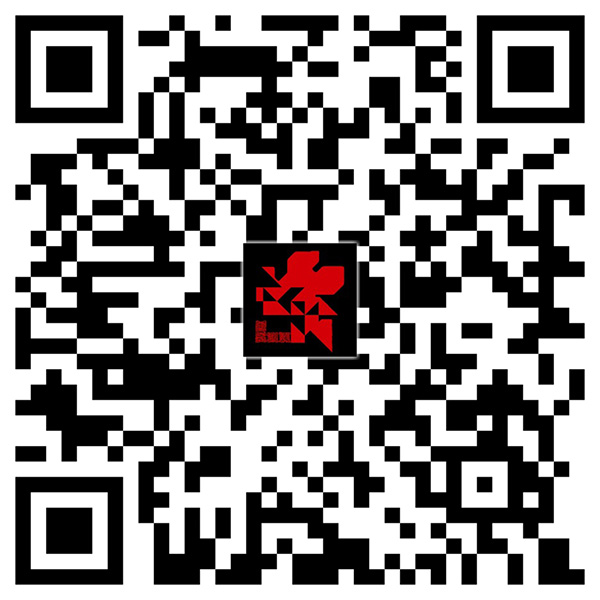
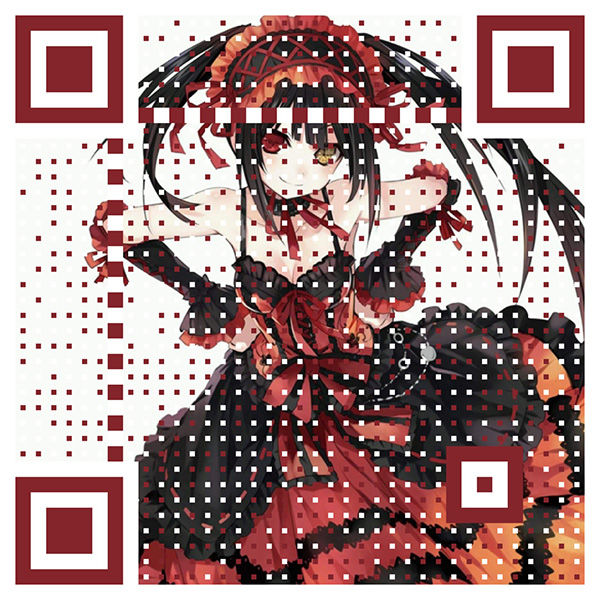
Fix README_CN.md

diff --git a/Example/EFQRCode/GeneratorController.swift b/Example/EFQRCode/GeneratorController.swift
@@ -59,7 +59,7 @@ class GeneratorController: UIViewController, UITextViewDelegate, UITableViewDele
 
         // Add test data
         let colorNameArray = [
-            "Black", "White", "Gray", "Red", "Blue", "LPD", "Miku", "Wille", "Hearth Stone", "Pikachu Red"
+            "Black", "White", "Gray", "Red", "Blue", "LPD", "Miku", "Wille", "Hearth Stone", "Pikachu Red", "3 Red"
         ]
         let colorArray = [
             UIColor.black, UIColor.white, UIColor.gray, UIColor.red, UIColor.blue, UIColor(
@@ -72,6 +72,8 @@ class GeneratorController: UIViewController, UITextViewDelegate, UITableViewDele
                 red: 125.0 / 255.0, green: 112.0 / 255.0, blue: 93.0 / 255.0, alpha: 1.0
             ), UIColor(
                 red: 233.0 / 255.0, green: 77.0 / 255.0, blue: 52.0 / 255.0, alpha: 1.0
+            ), UIColor(
+                red: 132.0 / 255.0, green: 37.0 / 255.0, blue: 43.0 / 255.0, alpha: 1.0
             )
         ]
         for (index, colorName) in colorNameArray.enumerated() {
